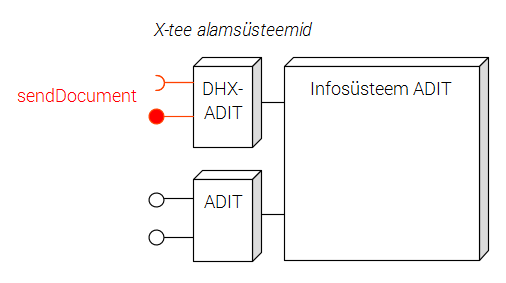
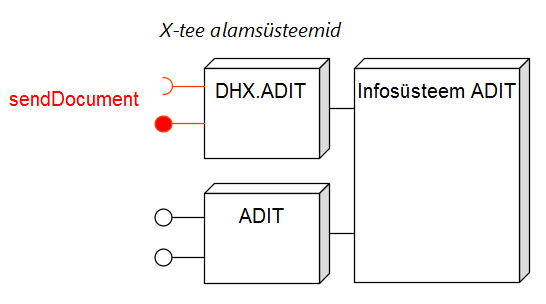
Redaktsiooniline muudatus 1.0.8 (punkti kasutamine alamsüsteemi nimes DHX-osa eraldajana kui väljakujunenud praktika) (näites DHX.ADIT). Protokoll ise ei muutunud.

Changed region(s): [[0.2668, 0.1696, 0.9783, 0.9611], [0.2964, 0.0565, 0.6225, 0.1413], [0.0, 0.2827, 0.2668, 0.3675]]

diff --git a/docs/index.html b/docs/index.html
@@ -433,7 +433,7 @@ Interneti standardimise organisatsioon IETF ([RFC 6852]) seab avastandardi (ingl
 
 <div class='note'>
   <p>Märkus (informatiivne). Infosüsteem võib DHX alamsüsteemi nime <code>DHX*</code> alt lisaks DHX dokumendivahetusele osutada ja tarbida ka teisi X-tee teenuseid. Siiski võib nime DHX laiem kasutamine tekitada asjatut kommunikatsioonivajadust või isegi segadust. Seetõttu, kui infosüsteemil on lisaks DHX protokolli kohasele andmeliiklusele X-teel veel muud andmeliiklust, siis võib olla otstarbekas enama kui ühe X-tee alamsüsteemi sidumine infosüsteemiga. Muudest teenustest eraldi DHX-alamsüsteem võib olla kasulik ka teenustele juurdepääsu halduse seisukohalt.</p>
-  <p>Näiteks joonisel 3a kujutatud infosüsteemil <code>ADIT</code> on kaks X-tee alamsüsteemi: 1) <code>DHX-ADIT</code> kaudu käib DHX andmeliiklus; 2) <code>ADIT</code> kaudu osutatakse ja tarbitakse muid X-tee teenuseid.</p>
+  <p>Näiteks joonisel 3a kujutatud infosüsteemil <code>ADIT</code> on kaks X-tee alamsüsteemi: 1) <code>DHX.ADIT</code> kaudu käib DHX andmeliiklus; 2) <code>ADIT</code> kaudu osutatakse ja tarbitakse muid X-tee teenuseid.</p>
   <p>Mitme alamsüsteemi kasutamisest ei teki lisakulutusi (ei ole vaja eraldi serte). Alamsüsteemid on käsitatavad loogiliste pääsupunktidena või väravatena.</p>
 </div>  
 
@@ -976,6 +976,10 @@ Interneti standardimise organisatsioon IETF ([RFC 6852]) seab avastandardi (ingl
 </tr>
 </thead>
 <tbody>
+<tr>
+  <td>1.0.8, 07.07.2017</td>
+  <td>Punktis 5.5 näites DHX-ADIT asendatud DHX.ADIT-ga, sest väljakujunenud (kuigi mitte protokolliga nõutav) praktika on kasutada punkti.</td>
+</tr>
 <tr>
   <td>1.0.7, 07.06.2017</td>
   <td>Lisatud informatiivne märkus, et eraldi DHX-alamsüsteem võib olla kasulik ka teenustele juurdepääsu haldamise seisukohalt.</td>

diff --git a/docs/EN.html b/docs/EN.html
@@ -434,7 +434,7 @@ DHX direct implementation Implementation of DHX directly, i.e. without an interm
 
 <div class='note'>
   <p>Note (informative). Information system may provide services other than DHX document exchange under subsystem name <code>DHX*</code>. Nevertheless, wider use of the name DHX can cause a need for unnecessary communication or even confusion. Therefore, if information system has besides DHX protocol data traffic other data traffic in X-Road, then it can be suitable to bind more than one X-Road subsystem to the information system. A separate DHX-subsystem can also be useful for better management of access to services.</p>
-  <p>For example, figure 3a represents an information system - <code>ADIT</code> - that is bound to two X-Road subsystems: 1) DHX data traffic flows through <code>DHX-ADIT</code>; 2) other X-Road services are provided and consumed through <code>ADIT</code>.</p>
+  <p>For example, figure 3a represents an information system - <code>ADIT</code> - that is bound to two X-Road subsystems: 1) DHX data traffic flows through <code>DHX.ADIT</code>; 2) other X-Road services are provided and consumed through <code>ADIT</code>.</p>
   <p>Usage of multiple subsystems does not cause additional costs (no separate sertificates are needed). Subsystems can be viewed as logical access points or gates.</p>
 </div>  
 
@@ -977,6 +977,10 @@ DHX direct implementation Implementation of DHX directly, i.e. without an interm
 </tr>
 </thead>
 <tbody>
+<tr>
+  <td>1.0.8, 07.07.2017</td>
+  <td>In section 5.5 changed DHX-ADIT to DHX.ADIT, because an established practice (though not a protocol requirement) is to use period as separator.</td>
+</tr>
 <tr>
   <td>1.0.7, 07.06.2017</td>
   <td>Added small informative note that separate DHX-subsystem can be useful for better management of access to services.</td>
